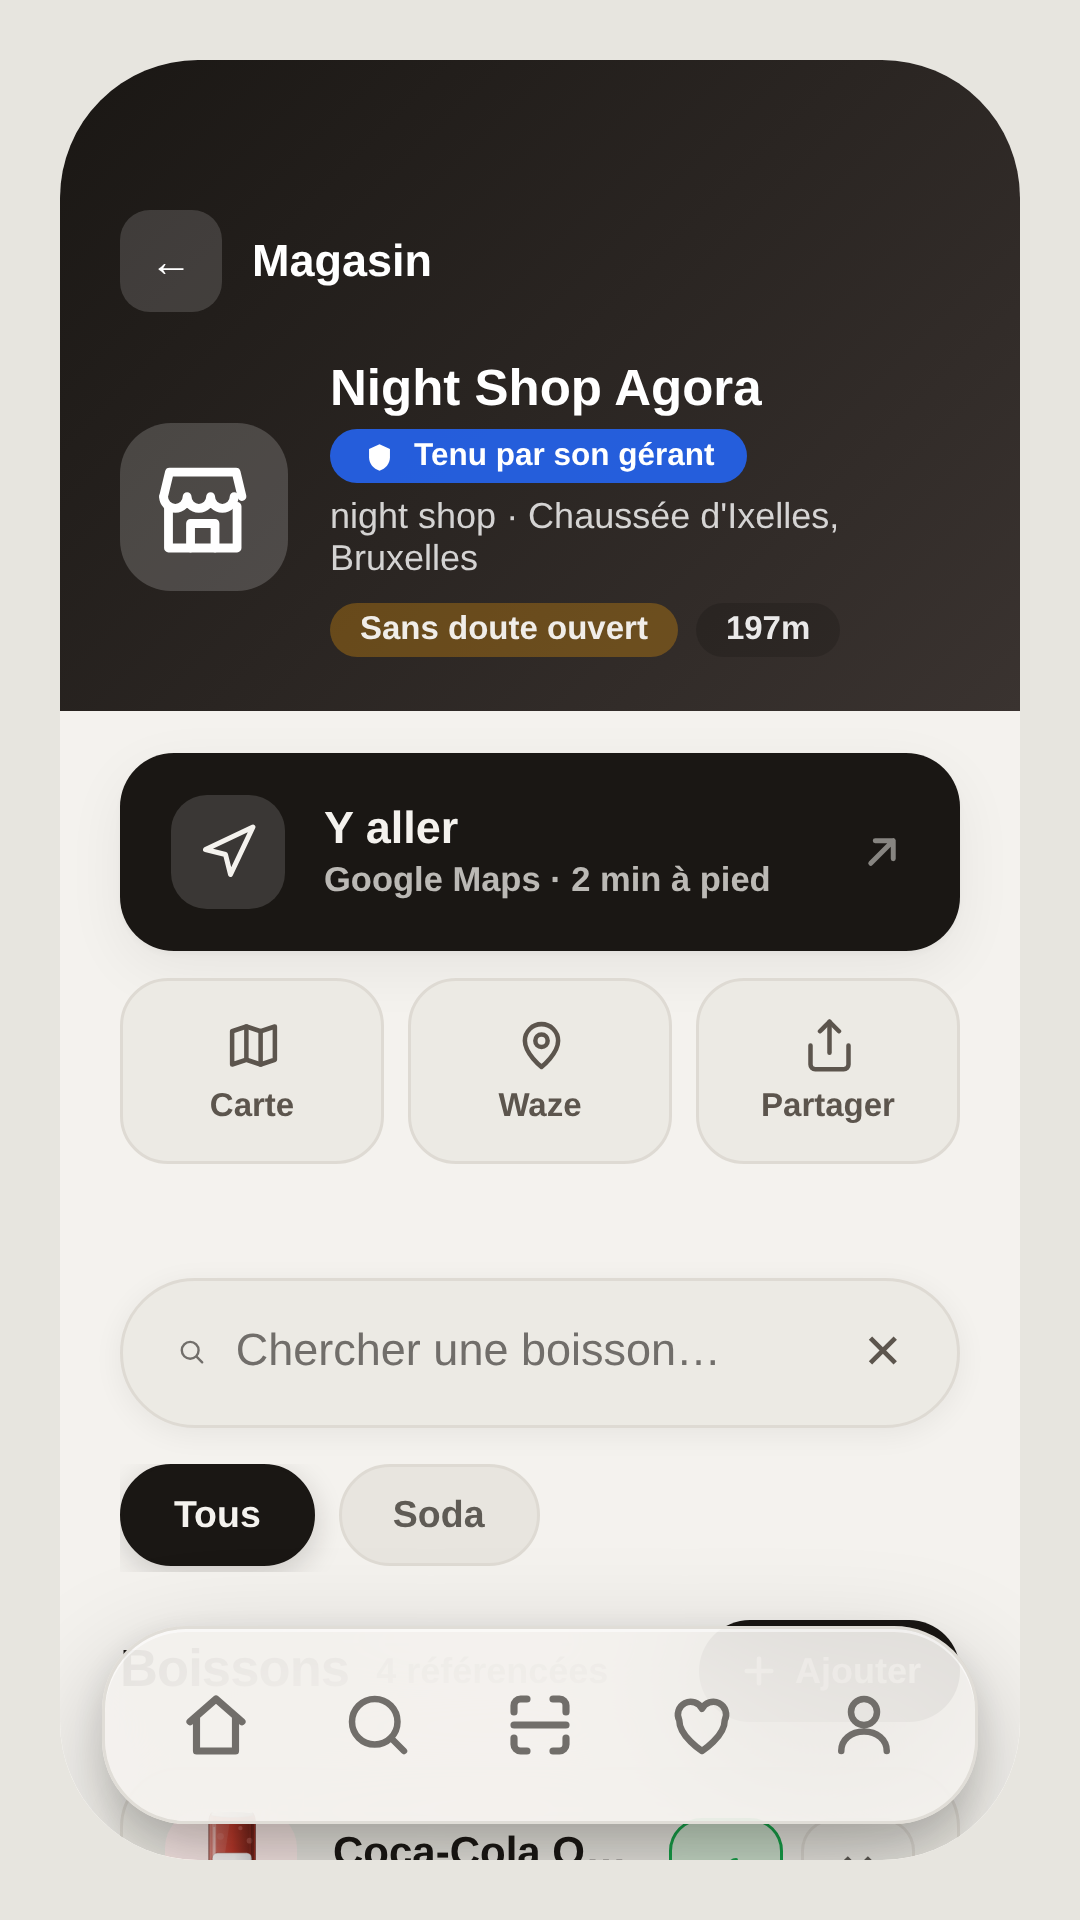
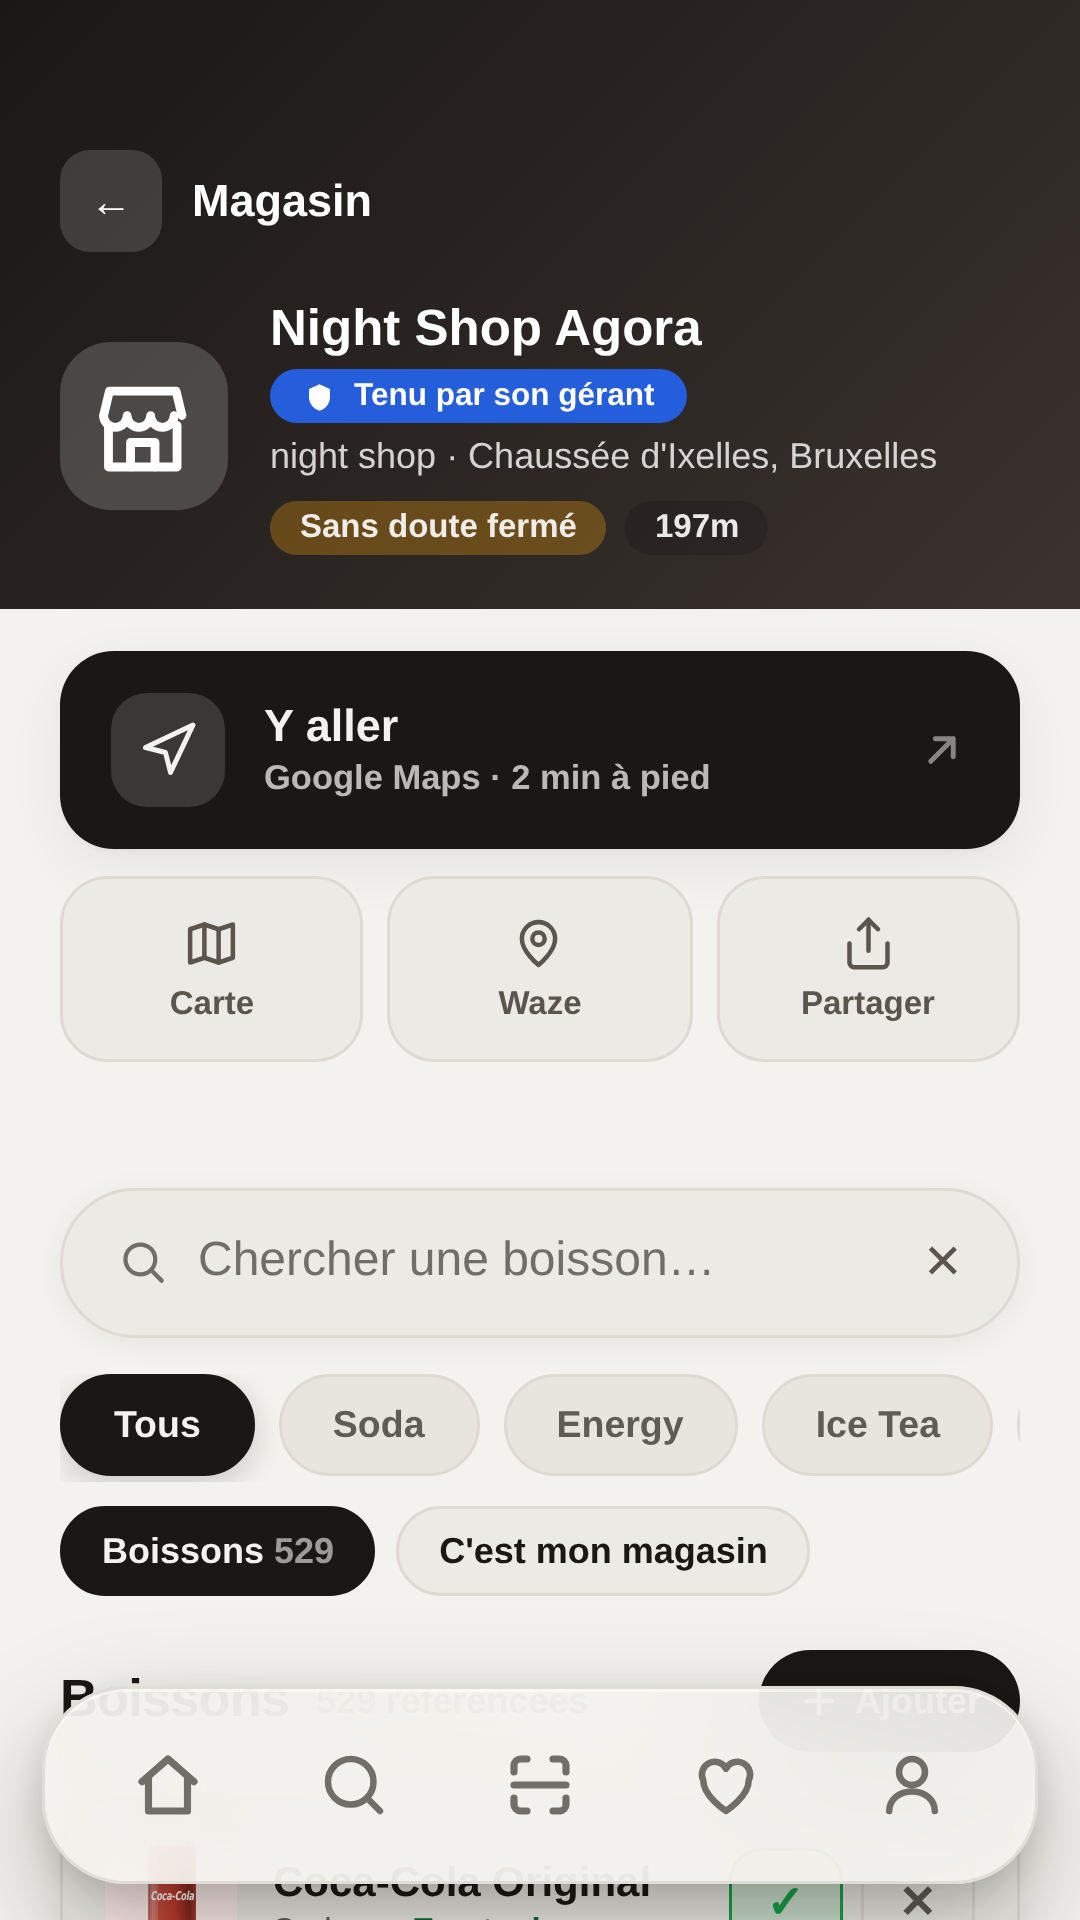
App installée : plein écran, et captures stores bord à bord
La coque de présentation du site (body en padding, #app en carte
arrondie de 402 px) donnait aux captures — et aurait donné à l'app
installée — l'allure d'« un site avec une app dedans ». Règle des
stores et attente des utilisateurs : on ne montre que l'application.

- app.css : html.natif neutralise la coque (plein écran, sans rayon,
  100dvh). Le site dans un navigateur garde sa présentation prototype.
- index.html : la classe est posée au démarrage quand l'app tourne en
  natif (Capacitor) ou en PWA installée (display-mode standalone).
- promo/captures-stores.mjs : restauré dans le dépôt, cache de session
  courant, et rendu forcé en mode installé — les dix captures Play et
  App Store sont régénérées bord à bord aux dimensions exactes.

Claude-Session: https://claude.ai/code/session_01K5SzASubQiFCB5AhXPeA6V

diff --git a/index.html b/index.html
@@ -51,6 +51,16 @@ window.__MAGOFEED_COPYRIGHT__ = "© 2026 Magofeed — Tous droits réservés";
 })();
 </script>
 <meta name="viewport" content="width=device-width,initial-scale=1,maximum-scale=1,viewport-fit=cover">
+<script>
+/* App installee (Capacitor, ou PWA en mode standalone) : plein ecran, la
+   coque de presentation du site disparait — voir html.natif dans app.css. */
+try{
+  if((window.Capacitor&&window.Capacitor.isNativePlatform&&window.Capacitor.isNativePlatform())
+   ||(window.matchMedia&&matchMedia("(display-mode: standalone)").matches)
+   ||navigator.standalone===true)
+    document.documentElement.classList.add("natif");
+}catch(e){}
+</script>
 <title>Ta boisson est en rupture partout ? Magofeed te dit qui l'a.</title>
 <meta name="description" content="Sodas, ice tea, energy, boissons rares : vois quel magasin autour de toi l'a vraiment en stock, confirmé en temps réel par la communauté. Gratuit, sans alcool, +750 boissons.">
 

diff --git a/app.css b/app.css
@@ -79,6 +79,20 @@ body{
   flex-direction:column;
 }
 
+/* ── App installée : l'app EST l'écran ─────────────────────────────────
+   La coque ci-dessus (body en padding, #app en carte arrondie de 402 px)
+   est la présentation du SITE — un prototype qu'on regarde dans une page.
+   Installée (app native Capacitor, ou PWA ajoutée à l'écran d'accueil),
+   l'app doit remplir le verre bord à bord, comme n'importe quelle app du
+   store. La classe est posée sur <html> par index.html au démarrage. */
+html.natif body{padding:0;display:block;min-height:100dvh}
+html.natif #app{
+  max-width:none;
+  height:100vh;height:100dvh;
+  max-height:none;
+  border-radius:0;
+}
+
 /* ── Screen system ── */
 .screen{
   display:none;
